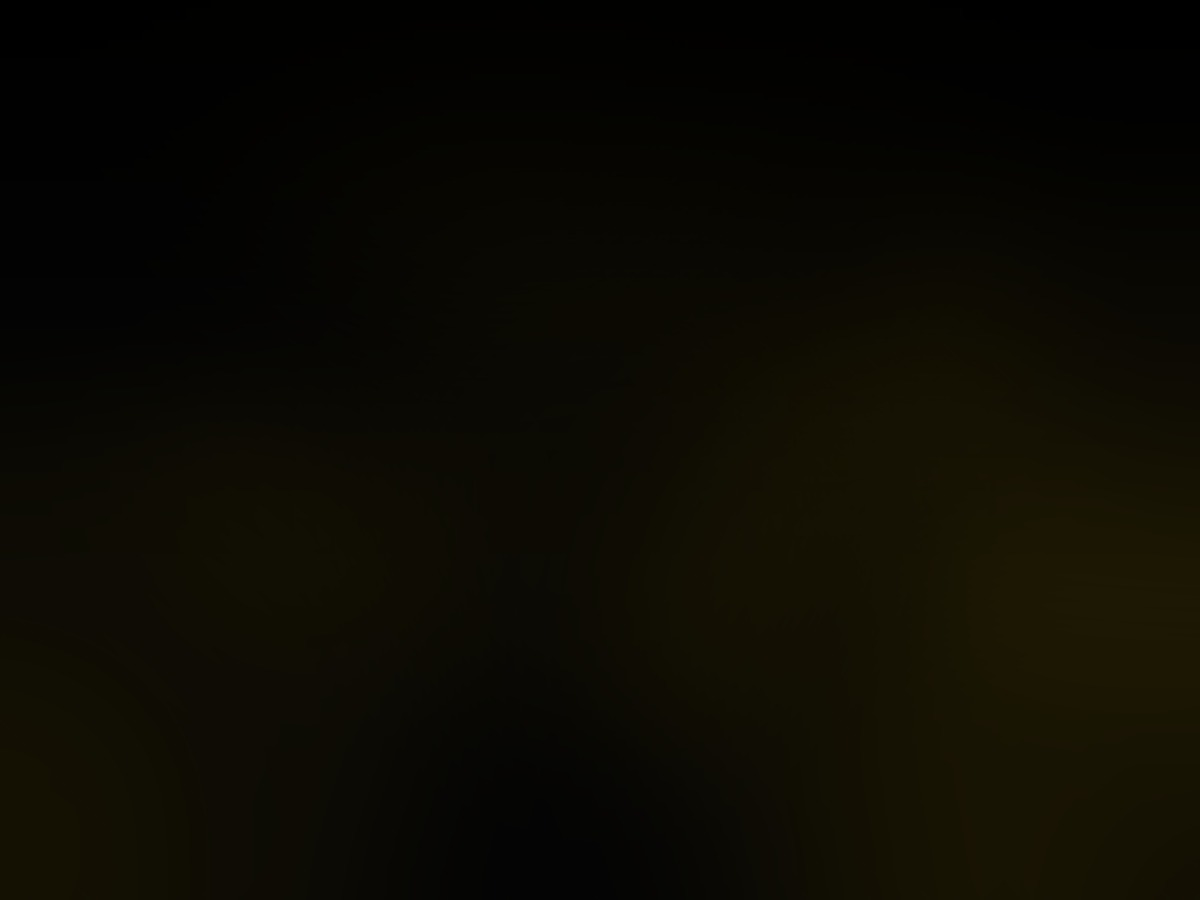
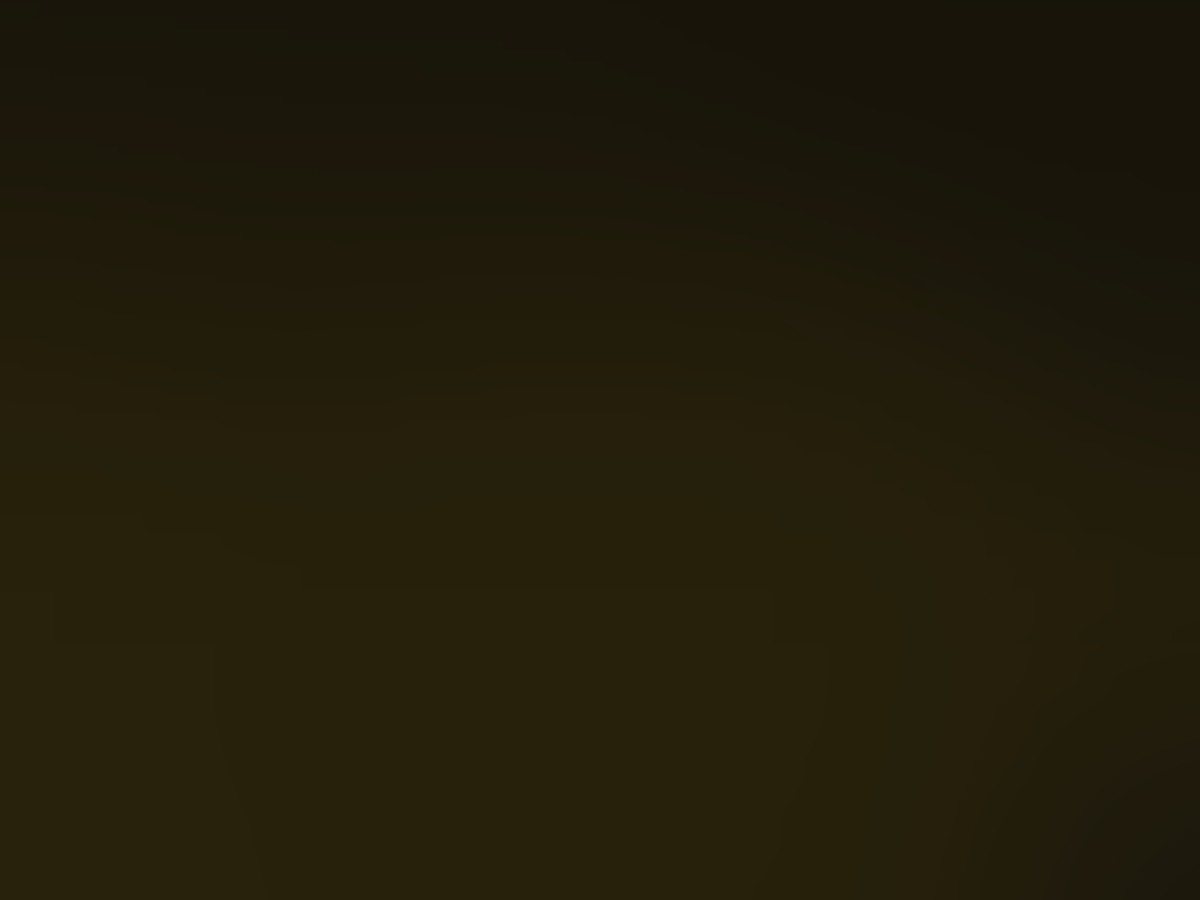
fix: brighten placeholders and enable remote gallery

diff --git a/lib/siteData.ts b/lib/siteData.ts
@@ -27,7 +27,7 @@ export const siteData = {
     primaryCta: "Agendar por WhatsApp",
     secondaryCta: "Ver planes",
     image: "/cristian.jpg",
-    fallback: "https://source.unsplash.com/1200x1600/?fitness,coach",
+    fallback: "https://source.unsplash.com/1600x2000/?fitness,coach",
   },
   sections: {
     about: {
@@ -118,19 +118,19 @@ export const siteData = {
       name: "Juli",
       quote: "Recuperé energía y confianza. La técnica y la nutrición fueron clave para mantener el ritmo.",
       rating: 5,
-      image: "/trans-1.jpg",
+      image: "https://source.unsplash.com/1200x900/?fitness,athlete,woman&sig=101",
     },
     {
       name: "Agus",
       quote: "Seguimiento cercano y ajustes reales. En pocas semanas ya veía progresión en fuerza y control.",
       rating: 5,
-      image: "/trans-2.jpg",
+      image: "https://source.unsplash.com/1200x900/?gym,man,training&sig=102",
     },
     {
       name: "Luis",
       quote: "Volví a entrenar sin dolor y con un plan claro. La comunicación por WhatsApp marca la diferencia.",
       rating: 5,
-      image: "/trans-3.jpg",
+      image: "https://source.unsplash.com/1200x900/?fitness,coach,man&sig=103",
     },
   ],
   plans: [
@@ -188,7 +188,7 @@ export const siteData = {
   ],
   media: {
     heroFallbackQueries: ["fitness", "coach"],
-    useRemote: false,
+    useRemote: true,
     localGallery: ["/cristian.jpg", "/trans-1.jpg", "/trans-2.jpg", "/trans-3.jpg"],
   },
   contact: {
